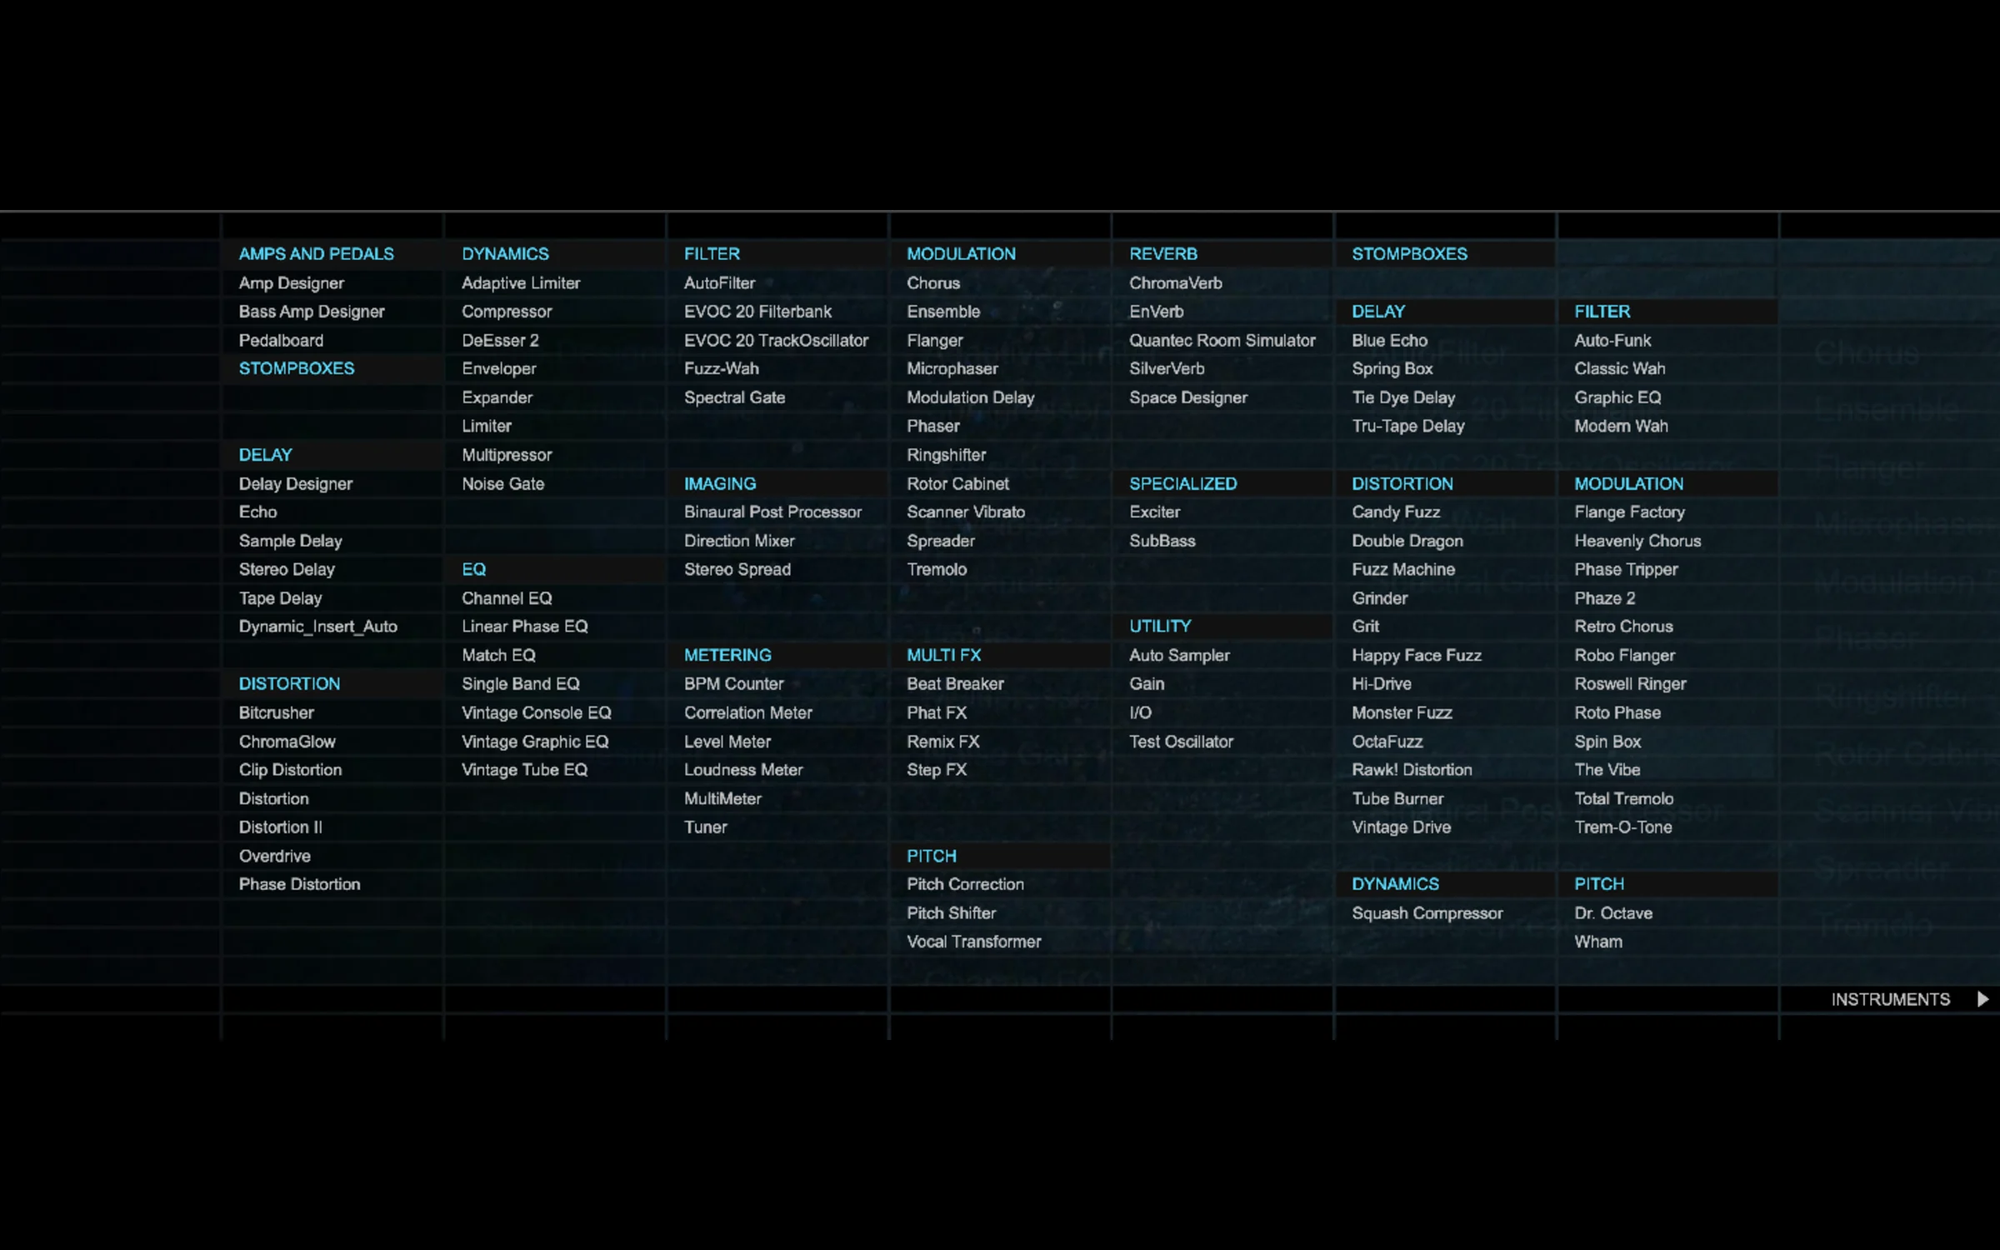
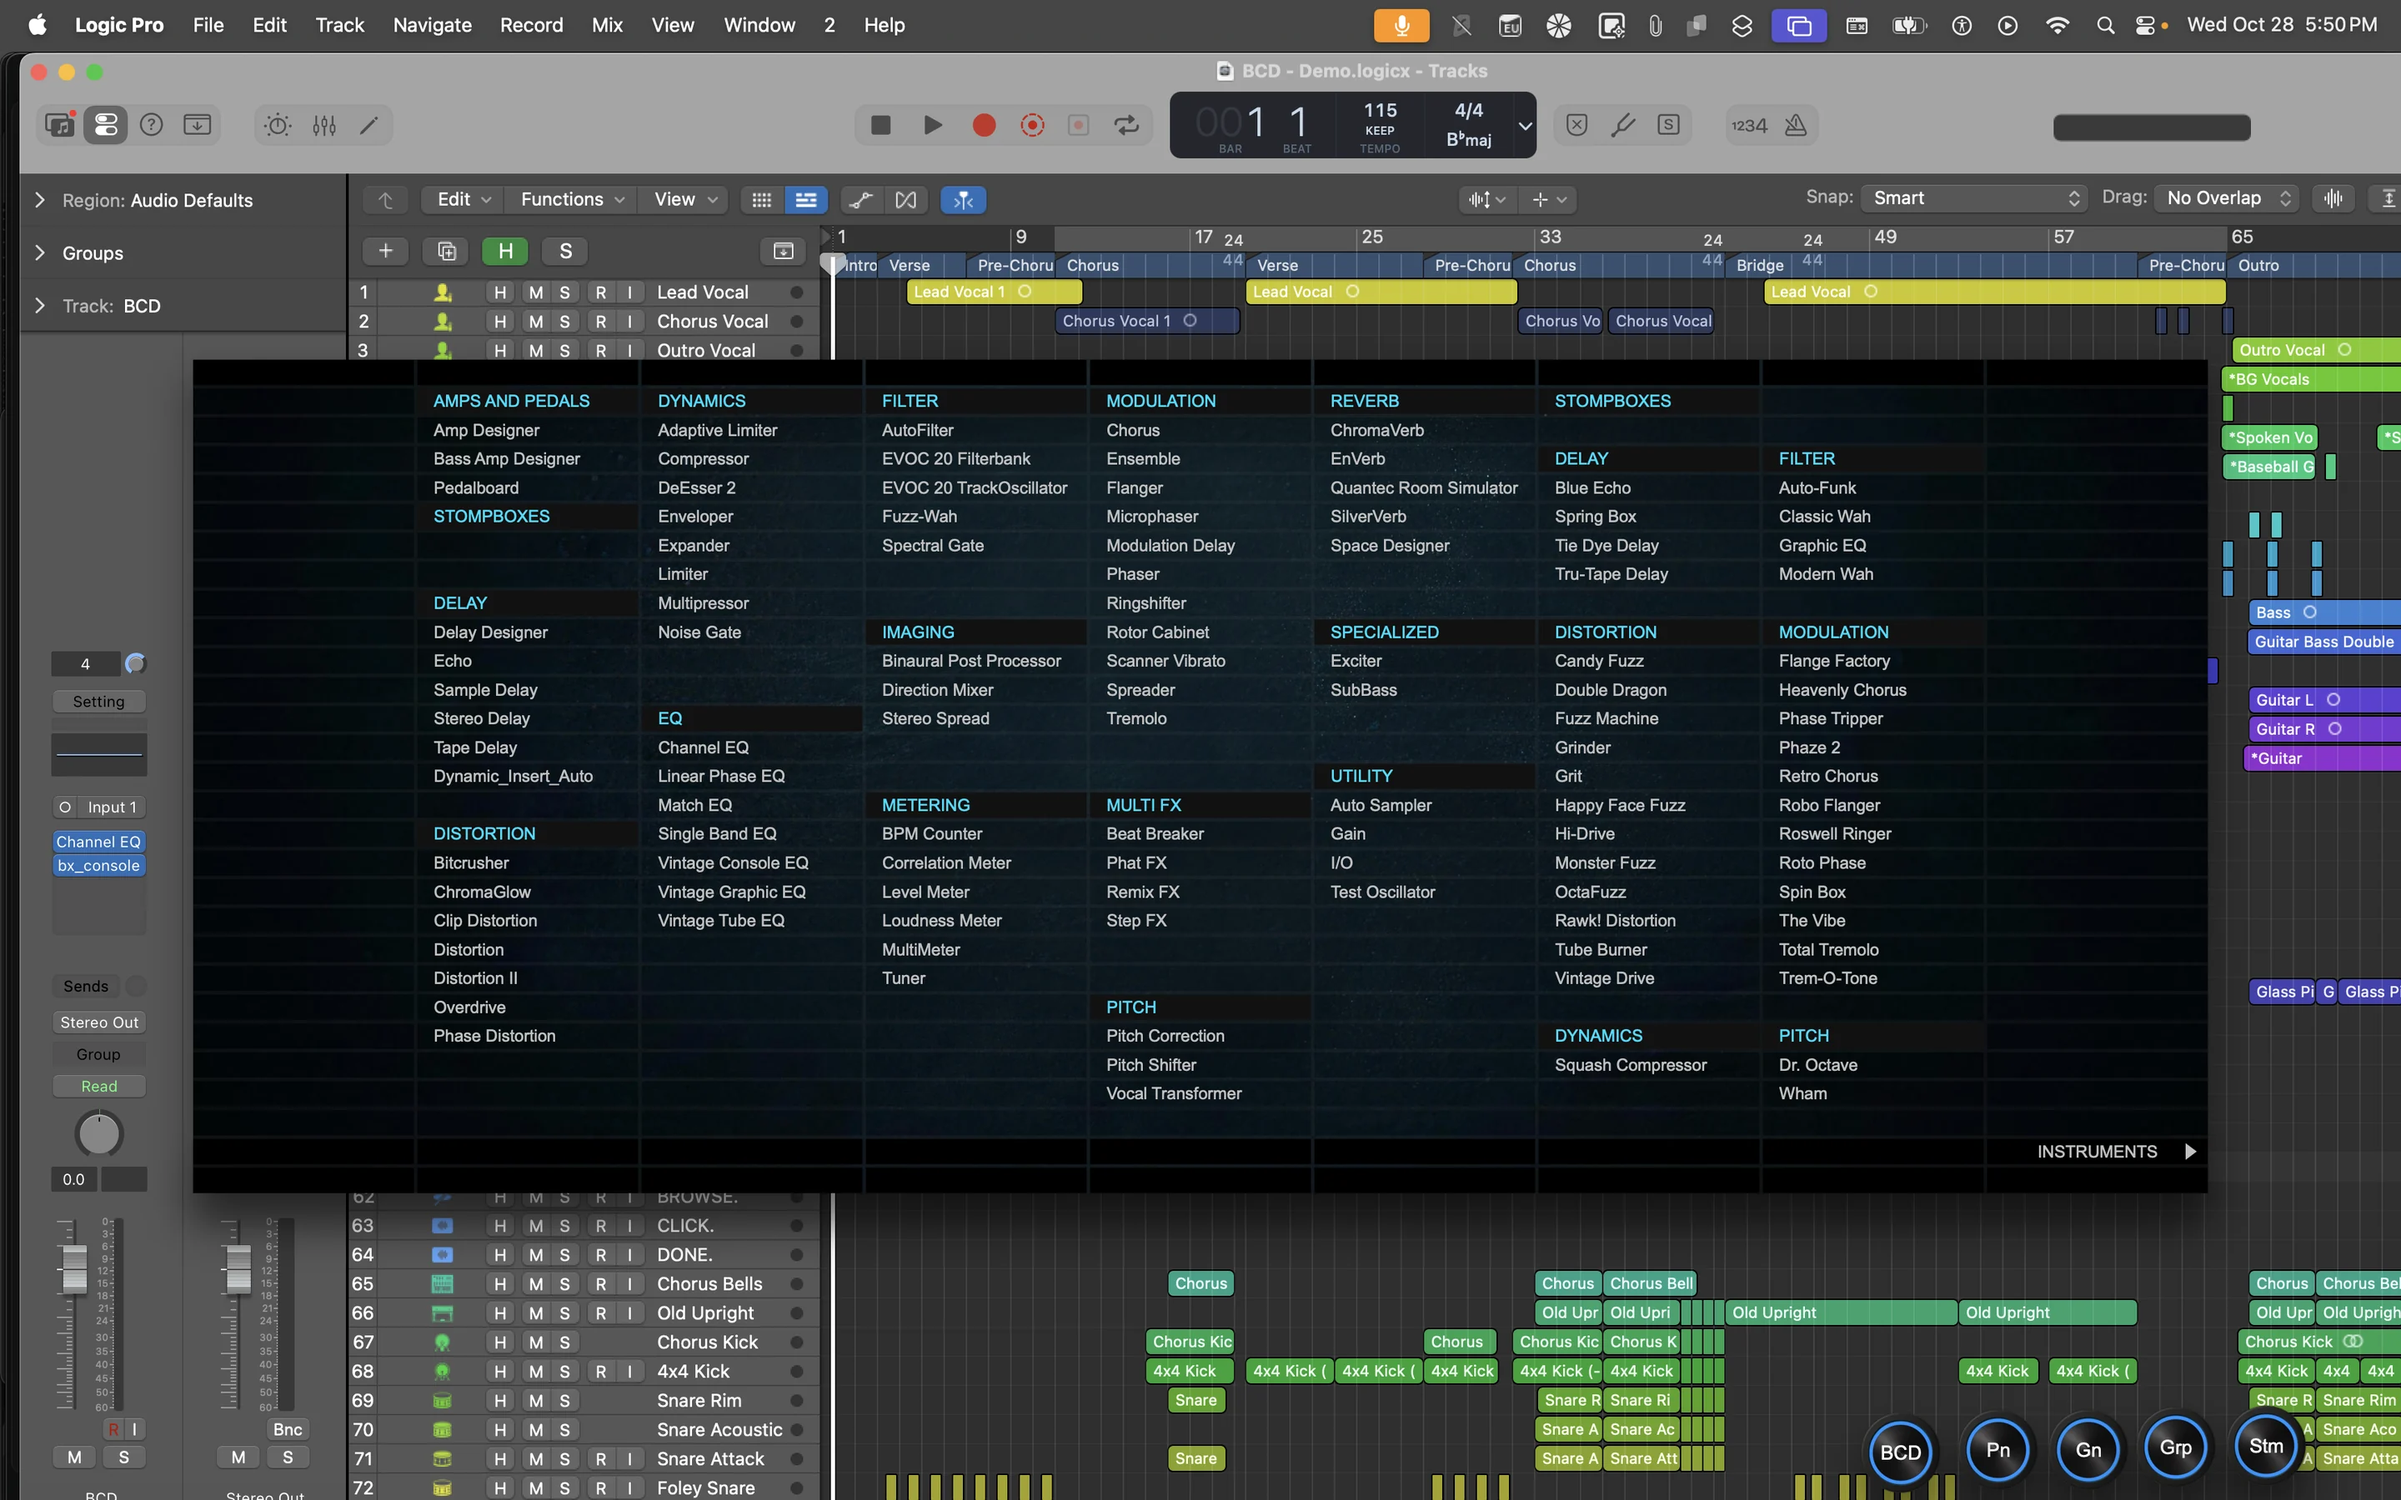
Laptop tour: Effects and Instruments now use full Logic Pro screenshots
Claude-Session: https://claude.ai/code/session_01CH3L65XQEXCz6Uu3iFQYpi

diff --git a/components/LaptopMenus.tsx b/components/LaptopMenus.tsx
@@ -3,8 +3,8 @@ import './laptop.css';
 
 const BASE = '/images/laptop/';
 const STEPS = [
-  { tex: 'fx', x: 1200, y: 750, wpx: 3300, yaw: -24, pitch: 9 },
-  { tex: 'inst', x: 1250, y: 750, wpx: 3300, yaw: 24, pitch: -6 },
+  { tex: 'fx', x: 1200, y: 775, wpx: 2760, yaw: -24, pitch: 9 },
+  { tex: 'inst', x: 1200, y: 775, wpx: 2760, yaw: 24, pitch: -6 },
   { tex: 'maxa', x: 1200, y: 750, wpx: 3200, yaw: -18, pitch: 8 },
   { tex: 'maxa', x: 700, y: 720, wpx: 1650, yaw: 14, pitch: -4 },
   { tex: 'maxb', x: 1200, y: 750, wpx: 3100, yaw: 20, pitch: -7 },
